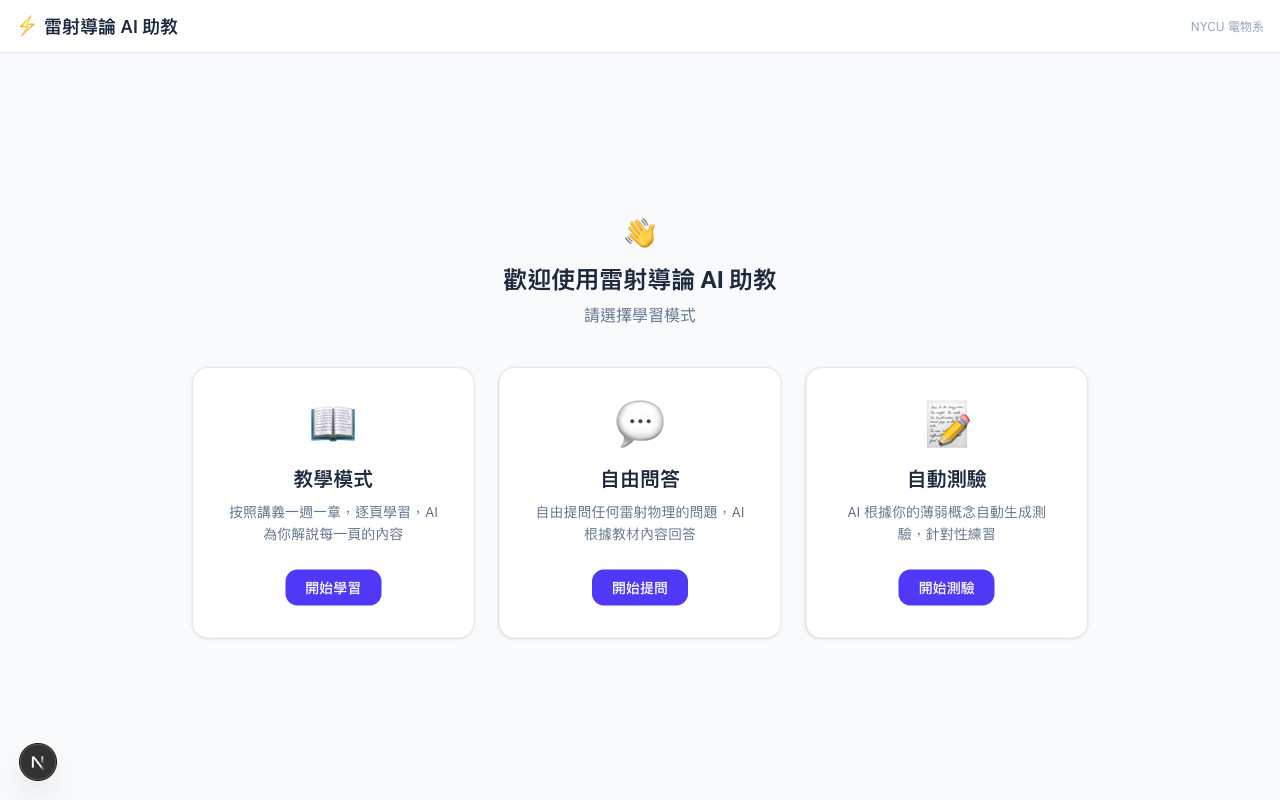
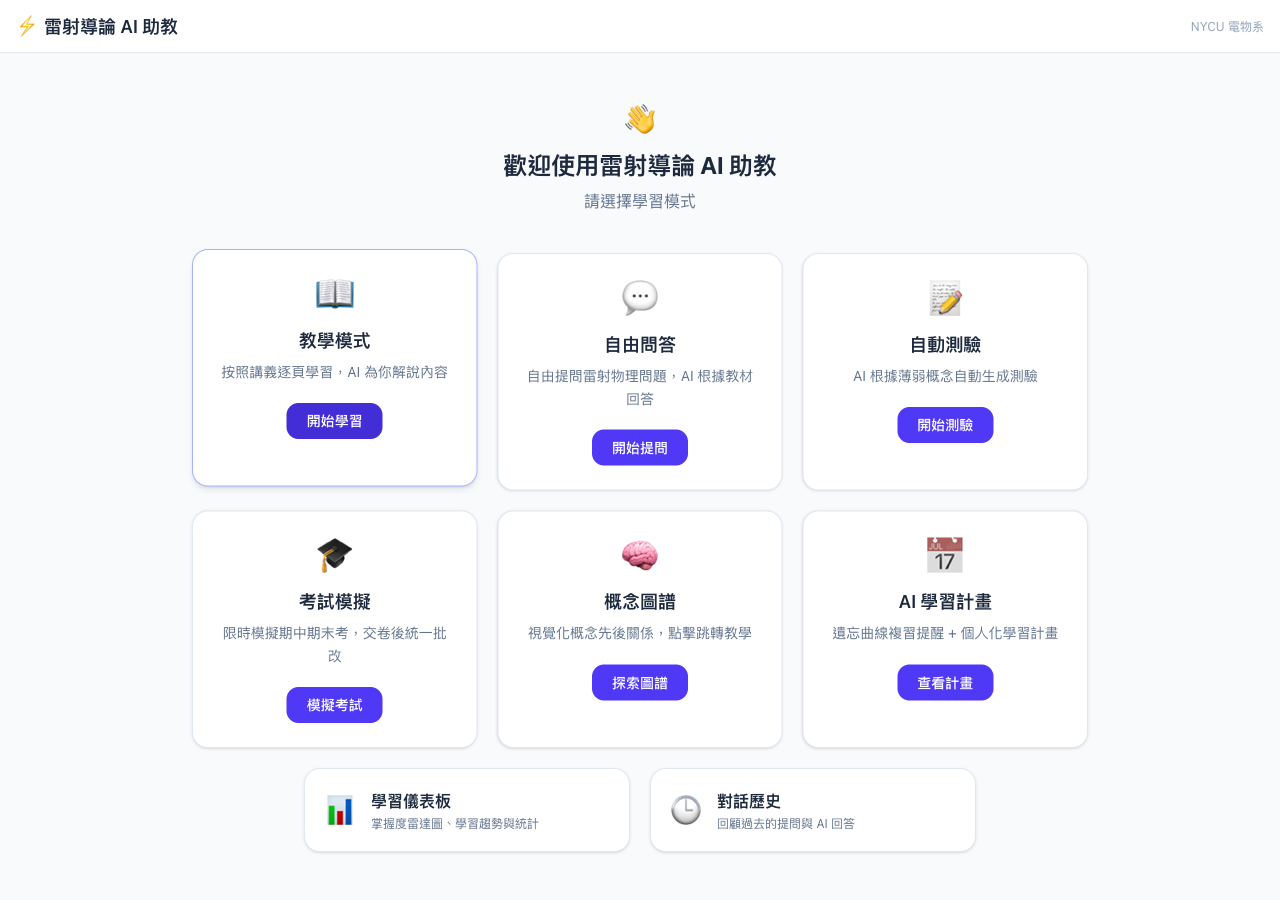
docs: update README screenshot and content for all 8 modes
- New homepage screenshot showing 3+3+2 mode layout
- Updated both EN/ZH READMEs: features, project structure, API endpoints, roadmap
- Added exam, knowledge graph, study plan, dashboard, history to docs

diff --git a/README.md b/README.md
@@ -12,7 +12,7 @@ https://web-eight-hazel-22.vercel.app
 
 ![Homepage — Mode Selector](docs/homepage.png)
 
-Three learning modes: **Teaching Mode** (lecture-by-lecture walkthrough), **Free Q&A** (RAG-powered chat), and **Auto Quiz** (AI-generated quizzes based on weak concepts).
+Eight learning modes: **Teaching Mode** (lecture-by-lecture walkthrough), **Free Q&A** (RAG-powered chat), **Auto Quiz** (AI-generated quizzes based on weak concepts), **Exam Simulation** (timed midterm/final exams with batch grading), **Concept Knowledge Graph** (interactive prerequisite visualization), **AI Study Plan** (spaced repetition + personalized weekly plan), **Learning Dashboard** (mastery radar chart, trends, activity stats), and **Chat History** (session-based conversation replay).
 
 ## Architecture
 
@@ -86,7 +86,8 @@ graph TD
 | Vector DB | Supabase (pgvector) | IVFFlat | Vector similarity search + data storage |
 | Styling | Tailwind CSS | v4 | Utility-first CSS |
 | Math | KaTeX | 0.16.35 | LaTeX formula rendering |
-| Markdown | react-markdown | 10.1.0 | Markdown parsing with remark-math + rehype-katex |
+| Markdown | react-markdown | 10.1.0 | Markdown parsing with remark-math + remark-gfm + rehype-katex |
+| Charts | Recharts | 2.x | Radar chart, trend lines, activity bar charts |
 | Web Search | Brave Search API | - | Fallback for out-of-scope questions |
 | PDF Parsing | google-generativeai (Python) | - | Vision-based PDF page extraction |
 | Validation | Zod | v4 | Schema validation for tool inputs + structured output |
@@ -153,6 +154,7 @@ AI_tutor_NYCU_EP/
 ├── scripts/
 │   ├── parse_pdfs.py                  # Gemini Vision PDF parsing (retry + rate limiting)
 │   ├── chunk_and_embed.py             # Contextual chunking + embedding pipeline
+│   ├── extract_slides.py             # PDF → JPEG → Supabase Storage upload
 │   └── requirements.txt
 ├── supabase/
 │   └── migrations/
@@ -163,16 +165,25 @@ AI_tutor_NYCU_EP/
 │   │   │   ├── api/
 │   │   │   │   ├── chat/route.ts      # Chat API: RAG + Gemini streaming + tool calling
 │   │   │   │   ├── lectures/route.ts  # Lectures API: week/page data for teaching mode
-│   │   │   │   └── quiz/route.ts      # Quiz API: generate + grade with Gemini structured output
+│   │   │   │   ├── quiz/route.ts      # Quiz API: generate + grade with structured output
+│   │   │   │   ├── exam/route.ts      # Exam API: timed midterm/final simulation
+│   │   │   │   ├── dashboard/route.ts # Dashboard API: mastery stats + activity data
+│   │   │   │   ├── history/route.ts   # History API: session-grouped chat replay
+│   │   │   │   └── study-plan/route.ts# Study Plan API: forgetting curve + AI plan
 │   │   │   ├── layout.tsx             # Root layout (KaTeX CSS, zh-Hant locale)
-│   │   │   ├── page.tsx               # Mode router (teaching / Q&A / quiz)
+│   │   │   ├── page.tsx               # Mode router (8 modes)
 │   │   │   └── globals.css
 │   │   ├── components/
 │   │   │   ├── chat.tsx               # Free Q&A chat (AI SDK v6 useChat)
-│   │   │   ├── teaching-mode.tsx      # Teaching mode: week grid → page viewer + AI explanation
+│   │   │   ├── teaching-mode.tsx      # Teaching mode: week grid → slide + AI explanation
 │   │   │   ├── quiz-mode.tsx          # Auto quiz: generate → answer → grade → results
-│   │   │   ├── mode-selector.tsx      # Landing page with 3 mode cards
-│   │   │   └── markdown-renderer.tsx  # Markdown + LaTeX + counterexample rendering
+│   │   │   ├── exam-mode.tsx          # Exam simulation: timed, batch grading, letter grades
+│   │   │   ├── knowledge-graph.tsx    # Concept graph: SVG desktop + card list mobile
+│   │   │   ├── study-plan.tsx         # Spaced repetition + AI personalized study plan
+│   │   │   ├── dashboard.tsx          # Learning dashboard: radar, trends, activity charts
+│   │   │   ├── chat-history.tsx       # Chat history: session list + conversation replay
+│   │   │   ├── mode-selector.tsx      # Landing page with 8 mode cards (3+3+2 layout)
+│   │   │   └── markdown-renderer.tsx  # Markdown + LaTeX + GFM table rendering
 │   │   └── lib/
 │   │       ├── rag.ts                 # Vector search via Supabase RPC
 │   │       └── supabase/
@@ -186,17 +197,20 @@ AI_tutor_NYCU_EP/
 
 ## Key Features
 
-- **Three Learning Modes** — Teaching mode (lecture walkthrough), Free Q&A (RAG chat), and Auto Quiz (AI-generated tests).
-- **Auto Quiz Generation** — AI analyzes student weak concepts (mastery < 60%) and generates targeted quizzes with 3 multiple-choice + 2 short-answer questions. Grades answers and updates mastery scores.
-- **Teaching Mode** — Browse lectures week-by-week, page-by-page. AI automatically explains each page with follow-up Q&A scoped to current content.
-- **Vision-based PDF parsing** — Uses Gemini Vision to read PDF pages as images, accurately capturing physics formulas, diagrams, and bilingual content. No traditional OCR.
-- **Contextual chunking** — Each chunk is prefixed with course metadata (week, page, section) to improve retrieval relevance.
+- **Eight Learning Modes** — Teaching, Free Q&A, Auto Quiz, Exam Simulation, Concept Graph, AI Study Plan, Dashboard, and Chat History.
+- **Exam Simulation** — Timed midterm/final mock exams (50/60 min). 7 multiple-choice + 3 short-answer questions. No answers shown during exam. Batch grading with letter grades (A+ to F) and per-question feedback.
+- **Concept Knowledge Graph** — Interactive SVG visualization of 16 laser physics concepts across 4 categories (Optics, Resonator, Quantum, Laser). Shows prerequisite relationships. Click to explore or jump to teaching mode. Mobile-responsive card layout.
+- **AI Study Plan** — Spaced repetition based on forgetting curve (retention = mastery × e^(-days/7)). Gemini generates personalized weekly plan with review priorities and specific exercise suggestions.
+- **Learning Dashboard** — Mastery radar chart, score trend line, activity heatmap, and detailed concept mastery table. 6 summary stat cards. Powered by Recharts.
+- **Chat History** — Session-based conversation replay grouped by 30-minute gaps. Browse past Q&A interactions with timestamps.
+- **Auto Quiz Generation** — AI analyzes student weak concepts (mastery < 60%) and generates targeted quizzes. Grades answers and updates mastery scores.
+- **Teaching Mode** — Browse lectures week-by-week with original slide images. AI automatically explains each page with follow-up Q&A.
+- **Vision-based PDF parsing** — Uses Gemini Vision to read PDF pages as images, accurately capturing physics formulas, diagrams, and bilingual content.
 - **RAG with pgvector** — 768-dimensional Gemini embeddings with cosine similarity search via Supabase RPC.
-- **Gemini 2.5 Flash streaming** — Real-time streaming responses with Vercel AI SDK v6 UIMessage protocol.
 - **Student knowledge tracking** — Automatically assesses mastery per concept and detects misconceptions via tool calling.
 - **Brave Search fallback** — When lecture content is insufficient, the system searches the web for supplementary information.
 - **LaTeX rendering** — KaTeX renders inline and display math formulas in real time during streaming.
-- **Counterexample detection** — Flags common physics misconceptions from lecture materials with warnings.
+- **Mobile responsive** — All 8 modes support mobile screens with adaptive layouts (card lists, select dropdowns, stacked buttons).
 - **Anonymous student profiles** — UUID-based identification via localStorage, no registration required.
 
 ## Environment Variables
@@ -277,14 +291,23 @@ Set environment variables via the Vercel Dashboard or CLI (`vercel env add`). Th
 | `POST /api/chat` | User sends message | RAG retrieval → Gemini streaming response with tool calls |
 | `POST /api/lectures` | Teaching mode navigation | Returns lecture structure (weeks, pages, chunks) |
 | `POST /api/quiz` | Quiz mode | Generates quizzes from weak concepts / grades answers |
+| `POST /api/exam` | Exam simulation | Generates timed midterm/final exams / batch grades |
+| `GET /api/dashboard` | Dashboard view | Returns mastery stats, activity heatmap, trend data |
+| `GET /api/history` | Chat history view | Returns session-grouped chat messages |
+| `GET /api/study-plan` | Study plan view | Forgetting curve analysis + AI-generated study plan |
 | `updateStudentModel` | After every substantive answer | Assesses student mastery (0-1 score) per concept, records misconceptions |
 | `webSearch` | When lecture content is insufficient | Queries Brave Search API, returns top 3 results |
 
 ## Roadmap
 
 - [x] Auto-generate quizzes based on weak concepts
-- [x] Teaching mode (lecture-by-lecture walkthrough)
+- [x] Teaching mode with original slide images
+- [x] Exam simulation (timed midterm/final mock exams)
+- [x] Concept knowledge graph (interactive prerequisite visualization)
+- [x] Spaced repetition + AI personalized study plan
+- [x] Learning dashboard (radar chart, trends, activity stats)
+- [x] Chat history with session replay
+- [x] Mobile responsive design (RWD)
 - [x] GitHub CI/CD auto-deploy via Vercel
 - [ ] Knowledge tracing dashboard for instructors
 - [ ] Multi-course support for other EP department courses
-- [ ] Quiz history and progress analytics

diff --git a/README.zh-TW.md b/README.zh-TW.md
@@ -12,7 +12,7 @@ https://web-eight-hazel-22.vercel.app
 
 ![首頁 — 模式選擇](docs/homepage.png)
 
-三種學習模式：**教學模式**（逐週逐頁講義導讀）、**自由問答**（RAG 智慧對話）、**自動測驗**（AI 根據薄弱概念自動出題）。
+八種學習模式：**教學模式**（逐週逐頁講義導讀）、**自由問答**（RAG 智慧對話）、**自動測驗**（AI 根據薄弱概念自動出題）、**考試模擬**（限時期中/期末考模擬）、**概念圖譜**（互動式概念先修關係圖）、**AI 學習計畫**（遺忘曲線複習 + 個人化週計畫）、**學習儀表板**（雷達圖、趨勢、統計）、**對話歷史**（分段式對話回顧）。
 
 ## 架構概覽
 
@@ -86,7 +86,8 @@ graph TD
 | Vector DB | Supabase | pgvector | 向量資料庫與後端服務 |
 | Styling | Tailwind CSS | v4 | 樣式框架 |
 | Math Rendering | KaTeX | 0.16.35 | LaTeX 公式渲染 |
-| Markdown | react-markdown | 10.1.0 | Markdown 解析 |
+| Markdown | react-markdown | 10.1.0 | Markdown 解析（含 remark-gfm 表格支援） |
+| Charts | Recharts | 2.x | 雷達圖、趨勢線、活動長條圖 |
 | Web Search | Brave Search API | - | 外部資訊檢索 |
 | PDF Parsing | google-generativeai | Python | PDF 視覺解析 |
 | PDF Parsing | pypdfium2 | - | PDF 處理庫 |
@@ -152,6 +153,7 @@ AI_tutor_NYCU_EP/
 ├── scripts/
 │   ├── parse_pdfs.py                  # Gemini Vision PDF 解析（具備重試與速率限制）
 │   ├── chunk_and_embed.py             # 文本切分與向量嵌入流水線
+│   ├── extract_slides.py             # PDF 轉 JPEG 並上傳至 Supabase Storage
 │   └── requirements.txt
 ├── supabase/
 │   └── migrations/
@@ -162,16 +164,25 @@ AI_tutor_NYCU_EP/
 │   │   │   ├── api/
 │   │   │   │   ├── chat/route.ts      # 對話 API：RAG、Gemini 串流與工具呼叫
 │   │   │   │   ├── lectures/route.ts  # 講義 API：教學模式的週次/頁面資料
-│   │   │   │   └── quiz/route.ts      # 測驗 API：Gemini 結構化輸出生成與批改
+│   │   │   │   ├── quiz/route.ts      # 測驗 API：Gemini 結構化輸出生成與批改
+│   │   │   │   ├── exam/route.ts      # 考試 API：限時期中/期末考模擬與批改
+│   │   │   │   ├── dashboard/route.ts # 儀表板 API：掌握度統計與活動數據
+│   │   │   │   ├── history/route.ts   # 歷史 API：分段式對話紀錄
+│   │   │   │   └── study-plan/route.ts# 學習計畫 API：遺忘曲線 + AI 個人化計畫
 │   │   │   ├── layout.tsx             # 根佈局（KaTeX 樣式、繁體中文語系）
-│   │   │   ├── page.tsx               # 模式路由（教學 / 問答 / 測驗）
+│   │   │   ├── page.tsx               # 模式路由（8 種模式）
 │   │   │   └── globals.css
 │   │   ├── components/
 │   │   │   ├── chat.tsx               # 自由問答對話介面（AI SDK v6 useChat）
-│   │   │   ├── teaching-mode.tsx      # 教學模式：週次選擇 → 頁面瀏覽 + AI 解說
+│   │   │   ├── teaching-mode.tsx      # 教學模式：投影片原圖 + AI 解說
 │   │   │   ├── quiz-mode.tsx          # 自動測驗：出題 → 作答 → 批改 → 結果
-│   │   │   ├── mode-selector.tsx      # 首頁模式選擇卡片
-│   │   │   └── markdown-renderer.tsx  # Markdown 與 LaTeX 渲染組件
+│   │   │   ├── exam-mode.tsx          # 考試模擬：計時、統一批改、等第制
+│   │   │   ├── knowledge-graph.tsx    # 概念圖譜：桌面 SVG 圖 + 手機卡片列表
+│   │   │   ├── study-plan.tsx         # 學習計畫：遺忘曲線 + AI 個人化週計畫
+│   │   │   ├── dashboard.tsx          # 儀表板：雷達圖、趨勢線、活動統計
+│   │   │   ├── chat-history.tsx       # 對話歷史：分段列表 + 對話回放
+│   │   │   ├── mode-selector.tsx      # 首頁模式選擇（3+3+2 佈局）
+│   │   │   └── markdown-renderer.tsx  # Markdown + LaTeX + GFM 表格渲染
 │   │   └── lib/
 │   │       ├── rag.ts                 # 透過 Supabase RPC 進行向量搜尋
 │   │       └── supabase/
@@ -185,17 +196,20 @@ AI_tutor_NYCU_EP/
 
 ## 核心功能
 
-- **三種學習模式** — 教學模式（逐頁講義導讀）、自由問答（RAG 對話）、自動測驗（AI 智慧出題）。
-- **自動測驗生成** — AI 分析學生薄弱概念（掌握度 < 60%），自動生成針對性測驗（3 選擇 + 2 簡答），批改後更新掌握度分數。
-- **教學模式** — 按週瀏覽講義，逐頁學習。AI 自動解說每頁內容，支援針對當前頁面的追問。
+- **八種學習模式** — 教學、問答、測驗、考試模擬、概念圖譜、AI 學習計畫、儀表板、對話歷史。
+- **考試模擬** — 限時模擬期中/期末考（50/60 分鐘），7 選擇 + 3 簡答，作答中不顯示答案，交卷後統一批改並給予等第（A+ ~ F）與逐題回饋。
+- **概念知識圖譜** — 互動式 SVG 視覺化 16 個雷射物理概念（光學、共振腔、量子、雷射四大類），箭頭標示先修關係，點擊可查看詳情或跳轉教學模式。手機自動切換為卡片列表。
+- **AI 個人化學習計畫** — 基於遺忘曲線（retention = mastery × e^(-days/7)）計算記憶衰退，Gemini 生成個人化週計畫，包含複習優先順序與具體練習建議。
+- **學習儀表板** — 掌握度雷達圖、分數趨勢線、學習活動長條圖、概念掌握明細表格。6 項摘要統計卡片。使用 Recharts 繪製。
+- **對話歷史** — 以 30 分鐘間隔自動分段，支援回顧過去的提問與 AI 回答，附帶時間戳記。
+- **自動測驗生成** — AI 分析學生薄弱概念（掌握度 < 60%），自動生成針對性測驗，批改後更新掌握度分數。
+- **教學模式** — 按週瀏覽講義，左側顯示原始投影片圖片，右側 AI 自動解說，支援追問。
 - **基於視覺的 PDF 解析** — 不使用傳統 OCR，而是透過 Gemini Vision 直接解析物理公式與圖表。
-- **脈絡化文本切分** — 在檢索區塊前加入課程 Metadata 前綴，提升檢索精準度。
 - **pgvector 向量搜尋** — 使用 768 維 Gemini 嵌入向量進行餘弦相似度搜尋。
-- **Gemini 2.5 Flash 串流對話** — 支援工具呼叫與即時回應。
 - **學生知識追蹤** — 自動評估各概念的掌握度並偵測常見誤解。
 - **Brave Search 網頁搜尋** — 當講義內容不足以回答時，自動切換至外部搜尋。
 - **KaTeX 公式渲染** — 完整呈現物理與數學公式。
-- **誤解偵測與警告** — 標記物理學中的常見錯誤觀念並提供提醒。
+- **手機響應式設計** — 全部 8 種模式支援手機螢幕，自適應佈局（卡片列表、下拉選單、垂直按鈕）。
 - **匿名學生檔案** — 使用 UUID 與 localStorage 實現無須註冊的個人化體驗。
 
 ## 環境變數
@@ -265,14 +279,23 @@ vercel --prod
 | `POST /api/chat` | 使用者發送訊息 | RAG 檢索 → Gemini 串流回覆，含工具呼叫 |
 | `POST /api/lectures` | 教學模式瀏覽 | 回傳講義結構（週次、頁面、內容區塊） |
 | `POST /api/quiz` | 測驗模式 | 根據薄弱概念生成測驗 / 批改答案 |
+| `POST /api/exam` | 考試模擬 | 生成限時期中/期末考 / 統一批改 |
+| `GET /api/dashboard` | 儀表板頁面 | 回傳掌握度統計、活動熱力圖、趨勢數據 |
+| `GET /api/history` | 對話歷史頁面 | 回傳分段式對話紀錄 |
+| `GET /api/study-plan` | 學習計畫頁面 | 遺忘曲線分析 + AI 個人化學習計畫 |
 | `updateStudentModel` | 每次實質回答後 | 評估學生掌握度（0-1 分）並記錄迷思概念 |
 | `webSearch` | 講義內容不足以回答時 | 呼叫 Brave Search API 搜尋補充資訊 |
 
 ## 未來展望
 
 - [x] 根據學生薄弱概念自動生成測驗
-- [x] 教學模式（逐週逐頁講義導讀）
-- [x] 整合 GitHub 實現 CI/CD 自動部署
+- [x] 教學模式（含原始投影片圖片）
+- [x] 考試模擬（限時期中/期末考）
+- [x] 概念知識圖譜（互動式先修關係圖）
+- [x] 遺忘曲線複習 + AI 個人化學習計畫
+- [x] 學習儀表板（雷達圖、趨勢、活動統計）
+- [x] 對話歷史與分段回放
+- [x] 手機響應式設計（RWD）
+- [x] GitHub CI/CD 自動部署至 Vercel
 - [ ] 為授課教師提供知識追蹤儀表板
 - [ ] 支援電子物理系其他課程
-- [ ] 測驗歷史紀錄與學習進度分析
